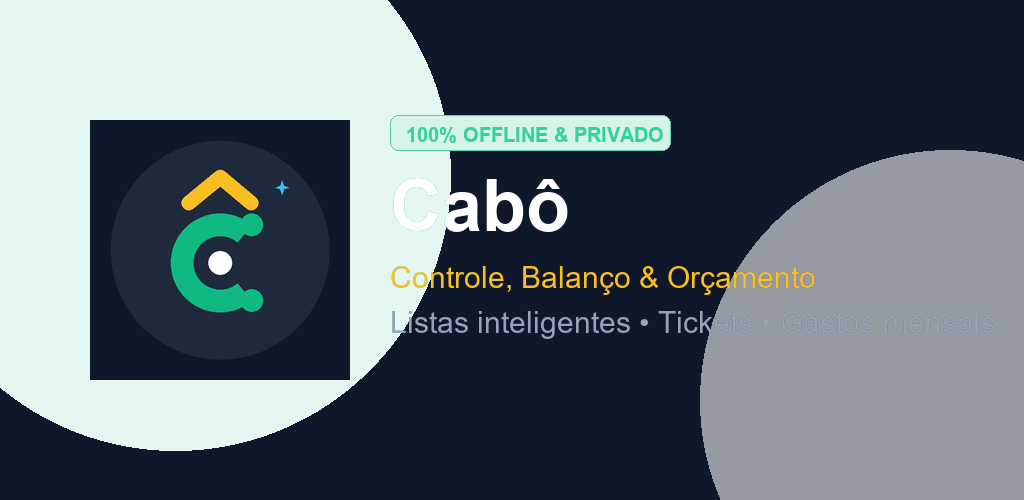
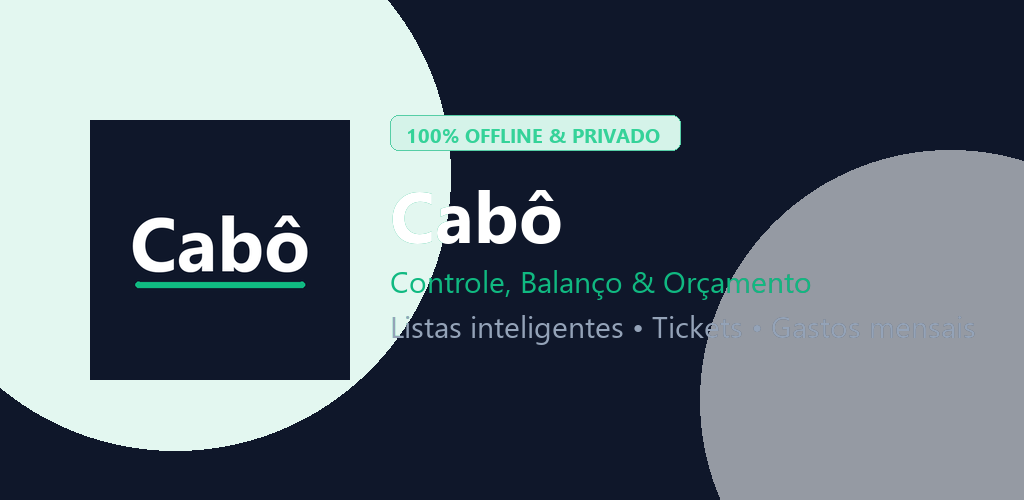
feat: corrige agendamento de lembrete no dia atual e cria novo icone minimalista Cabo (CABO-41, CABO-42)

diff --git a/app/src/main/java/com/mercadosmart/notification/NotificationHelper.kt b/app/src/main/java/com/mercadosmart/notification/NotificationHelper.kt
@@ -93,7 +93,7 @@ class ReminderReceiver : BroadcastReceiver() {
                             .getAllOnce()
                             .firstOrNull { it.id == reminderId && it.isActive }
                         if (reminder != null) {
-                            AlarmScheduler.scheduleReminder(context, reminder)
+                            AlarmScheduler.scheduleReminder(context, reminder, skipCurrentMinute = true)
                         }
                     } finally {
                         pendingResult.finish()
@@ -214,60 +214,93 @@ object AlarmScheduler {
     internal fun parseHourMinute(timeStr: String): Pair<Int, Int> {
         val clean = timeStr.trim().lowercase()
         val match = Regex("""(\d{1,2})\s*[:h.]\s*(\d{1,2})?""").find(clean)
-        val hours = if (match != null) {
-            match.groupValues[1].toIntOrNull()?.coerceIn(0, 23) ?: 9
-        } else {
-            clean.filter { it.isDigit() }.take(2).toIntOrNull()?.coerceIn(0, 23) ?: 9
+        if (match != null) {
+            val hours = match.groupValues[1].toIntOrNull()?.coerceIn(0, 23) ?: 9
+            val minutes = if (match.groupValues[2].isNotBlank()) {
+                match.groupValues[2].toIntOrNull()?.coerceIn(0, 59) ?: 0
+            } else {
+                0
+            }
+            return hours to minutes
         }
-        val minutes = if (match != null && match.groupValues[2].isNotBlank()) {
-            match.groupValues[2].toIntOrNull()?.coerceIn(0, 59) ?: 0
-        } else {
-            0
+
+        val digits = clean.filter { it.isDigit() }
+        return when {
+            digits.length >= 4 -> {
+                val h = digits.substring(0, 2).toIntOrNull()?.coerceIn(0, 23) ?: 9
+                val m = digits.substring(2, 4).toIntOrNull()?.coerceIn(0, 59) ?: 0
+                h to m
+            }
+            digits.length == 3 -> {
+                val h = digits.substring(0, 1).toIntOrNull()?.coerceIn(0, 23) ?: 9
+                val m = digits.substring(1, 3).toIntOrNull()?.coerceIn(0, 59) ?: 0
+                h to m
+            }
+            digits.isNotEmpty() -> {
+                val h = digits.toIntOrNull()?.coerceIn(0, 23) ?: 9
+                h to 0
+            }
+            else -> 9 to 0
         }
-        return hours to minutes
     }
 
-    fun computeNextReminderTriggerMillis(reminder: Reminder): Long {
+    fun computeNextReminderTriggerMillis(
+        reminder: Reminder,
+        skipCurrentMinute: Boolean = false
+    ): Long {
         val (hours, minutes) = parseHourMinute(reminder.time)
         val nowMillis = System.currentTimeMillis()
+        val todayDayOfWeek = Calendar.getInstance().get(Calendar.DAY_OF_WEEK)
 
         val calendar = Calendar.getInstance().apply {
             set(Calendar.HOUR_OF_DAY, hours)
             set(Calendar.MINUTE, minutes)
             set(Calendar.SECOND, 0)
             set(Calendar.MILLISECOND, 0)
-
-            val dayMap = mapOf(
-                "domingo" to Calendar.SUNDAY,
-                "segunda" to Calendar.MONDAY,
-                "terça" to Calendar.TUESDAY,
-                "terca" to Calendar.TUESDAY,
-                "quarta" to Calendar.WEDNESDAY,
-                "quinta" to Calendar.THURSDAY,
-                "sexta" to Calendar.FRIDAY,
-                "sábado" to Calendar.SATURDAY,
-                "sabado" to Calendar.SATURDAY
-            )
-
-            val targetDay = dayMap[reminder.dayOfWeek.trim().lowercase()]
-            if (targetDay != null) {
-                if (get(Calendar.DAY_OF_WEEK) != targetDay || timeInMillis <= nowMillis) {
-                    if (get(Calendar.DAY_OF_WEEK) == targetDay && timeInMillis <= nowMillis) {
-                        add(Calendar.DAY_OF_YEAR, 7)
-                    } else {
-                        while (get(Calendar.DAY_OF_WEEK) != targetDay) {
-                            add(Calendar.DAY_OF_YEAR, 1)
-                        }
-                    }
-                }
-            } else if (timeInMillis <= nowMillis) {
-                add(Calendar.DAY_OF_YEAR, 1)
-            }
         }
+
+        val dayMap = mapOf(
+            "domingo" to Calendar.SUNDAY,
+            "segunda" to Calendar.MONDAY,
+            "terça" to Calendar.TUESDAY,
+            "terca" to Calendar.TUESDAY,
+            "quarta" to Calendar.WEDNESDAY,
+            "quinta" to Calendar.THURSDAY,
+            "sexta" to Calendar.FRIDAY,
+            "sábado" to Calendar.SATURDAY,
+            "sabado" to Calendar.SATURDAY
+        )
+
+        val targetDay = dayMap[reminder.dayOfWeek.trim().lowercase()]
+        if (targetDay != null) {
+            if (targetDay == todayDayOfWeek) {
+                if (calendar.timeInMillis > nowMillis) {
+                    return calendar.timeInMillis
+                }
+                if (!skipCurrentMinute && (nowMillis - calendar.timeInMillis) < 60_000L) {
+                    return nowMillis + 3_000L
+                }
+                calendar.add(Calendar.DAY_OF_YEAR, 7)
+            } else {
+                while (calendar.get(Calendar.DAY_OF_WEEK) != targetDay) {
+                    calendar.add(Calendar.DAY_OF_YEAR, 1)
+                }
+            }
+        } else if (calendar.timeInMillis <= nowMillis) {
+            if (!skipCurrentMinute && (nowMillis - calendar.timeInMillis) < 60_000L) {
+                return nowMillis + 3_000L
+            }
+            calendar.add(Calendar.DAY_OF_YEAR, 1)
+        }
+
         return calendar.timeInMillis
     }
 
-    fun scheduleReminder(context: Context, reminder: Reminder) {
+    fun scheduleReminder(
+        context: Context,
+        reminder: Reminder,
+        skipCurrentMinute: Boolean = false
+    ) {
         val alarmManager = context.getSystemService(Context.ALARM_SERVICE) as AlarmManager
 
         val intent = Intent(context, ReminderReceiver::class.java).apply {
@@ -283,7 +316,7 @@ object AlarmScheduler {
             PendingIntent.FLAG_UPDATE_CURRENT or PendingIntent.FLAG_IMMUTABLE
         )
 
-        val triggerAtMillis = computeNextReminderTriggerMillis(reminder)
+        val triggerAtMillis = computeNextReminderTriggerMillis(reminder, skipCurrentMinute)
 
         // Usa setAlarmClock para acordar o aparelho exatamente no horário mesmo em Doze mode
         try {
